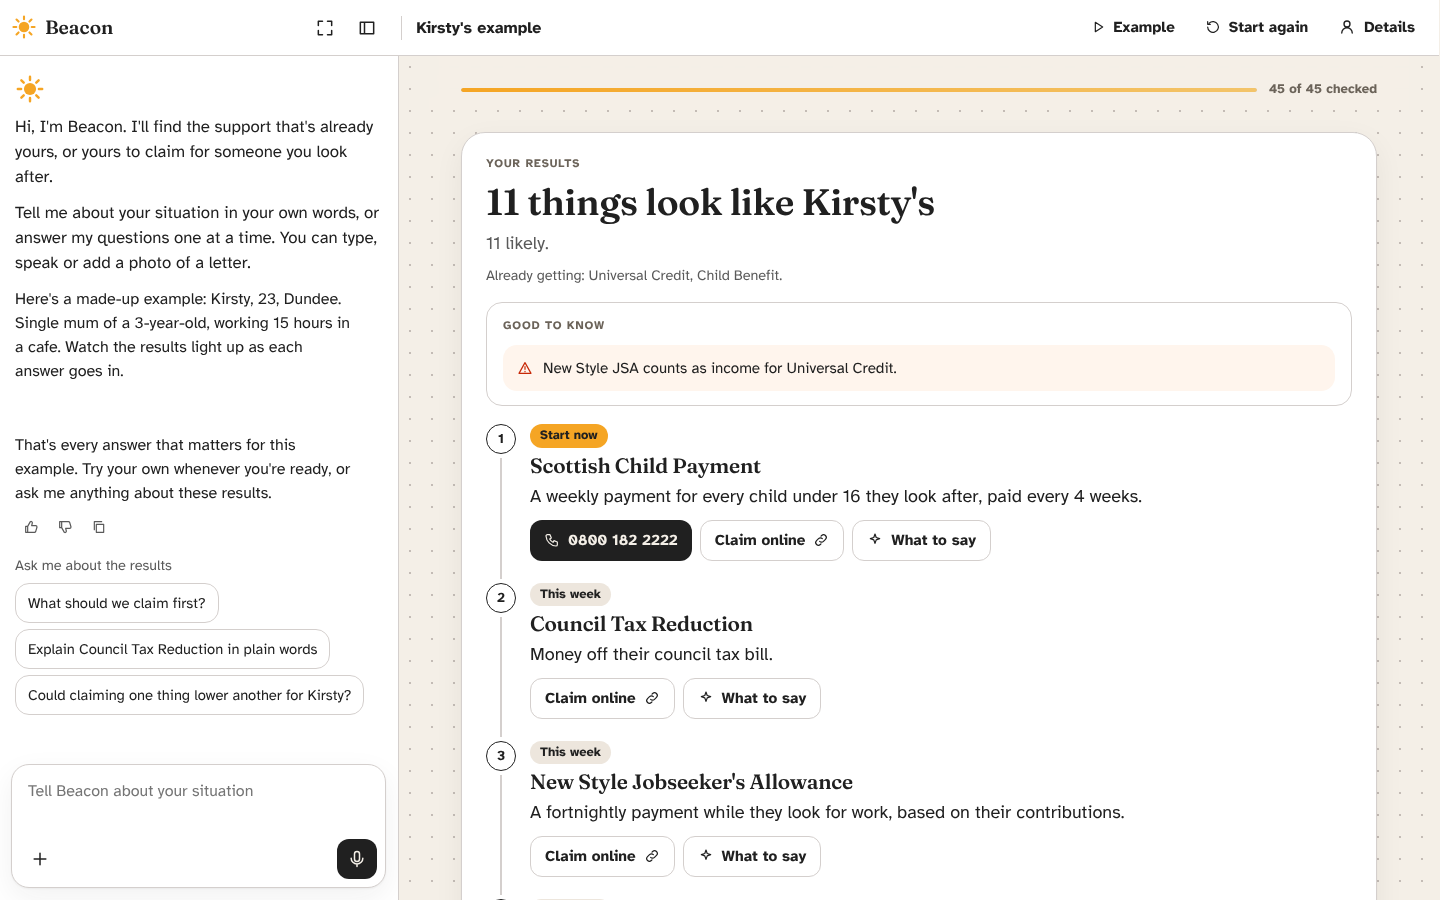
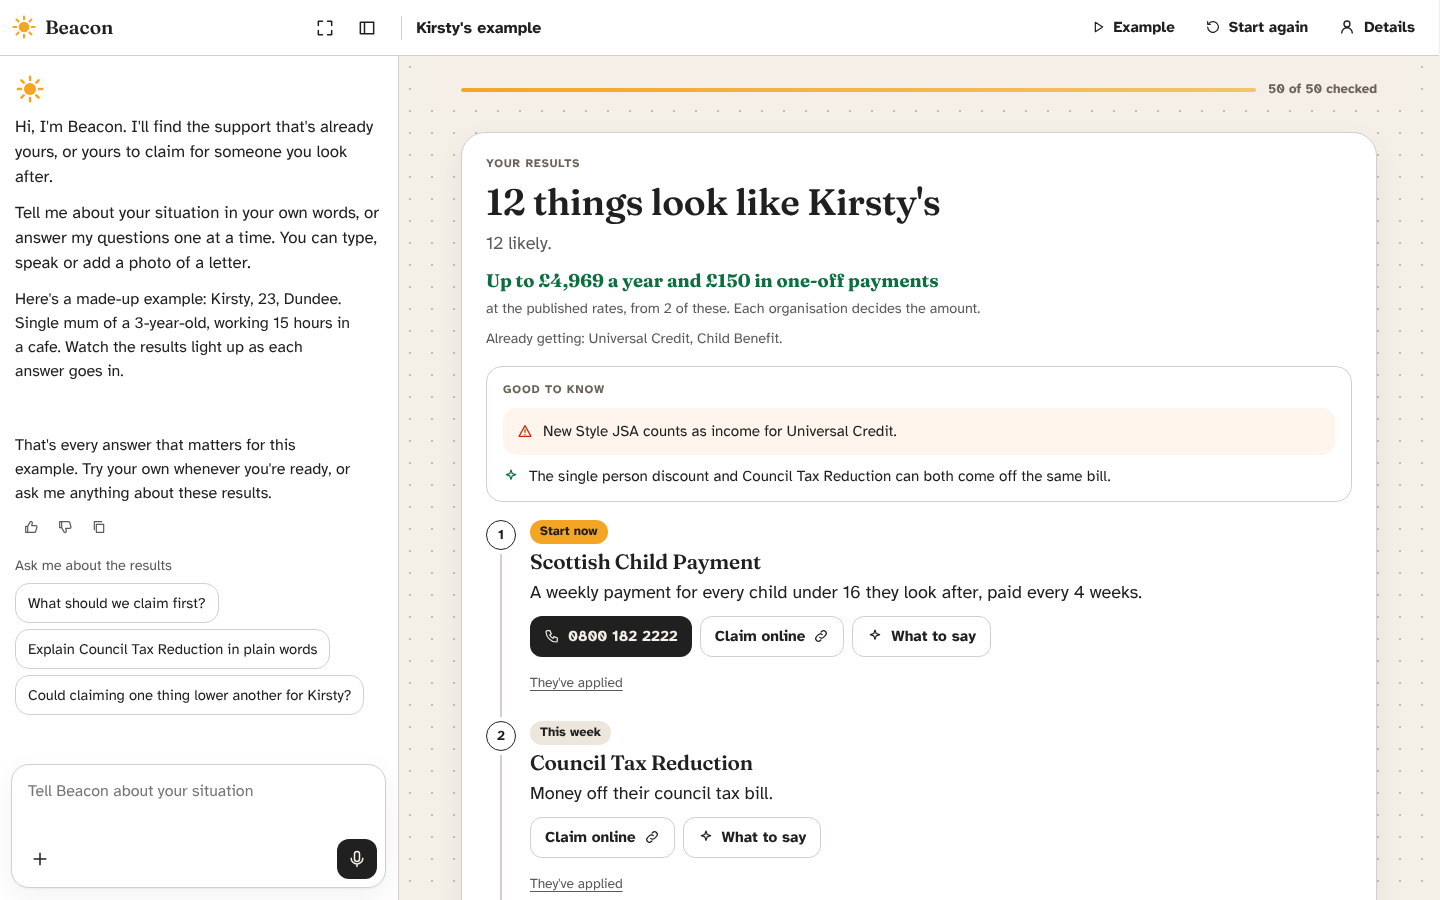
feat(meta): what the help is worth, from published rates and the person's own income
Packs carry each scheme's 2026/27 published rate with its source (Attendance
Allowance, PIP, Carer's Allowance, New Style JSA, Maternity Allowance,
Bereavement Support Payment, Winter Fuel Payment, Warm Home Discount, Pension
Age Winter Heating Payment). Pension Credit is a top-up worked out from their
income against the guarantee line. Results show a yearly total for likely help
and each scheme's amount with a link to the rates. Good to know shows clash
warnings first and folds the rest behind one button.

diff --git a/apps/meta/src/components/results/Results.tsx b/apps/meta/src/components/results/Results.tsx
@@ -18,6 +18,8 @@ import {
   type Status,
   timingFor,
   warnings,
+  worthLabel,
+  worthTotals,
 } from "@/engine/rules";
 import { STATUS_TXT, useCheck } from "@/lib/check-store";
 import { councilServiceUrl, shortCouncil, useCouncil } from "@/lib/council";
@@ -59,6 +61,7 @@ export function Results() {
     ) : null;
   }
   const total = likely + check;
+  const worth = worthTotals(states, answers);
   return (
     <section className="results" data-testid="results" aria-labelledby="res-h">
       <Banner done={done} likely={likely} />
@@ -79,22 +82,26 @@ export function Results() {
             .join(", ")}
           .
         </p>
+        {worth.yearly + worth.once > 0 && (
+          <p className="worth" data-testid="worth">
+            <b>
+              Up to £{worth.yearly.toLocaleString("en-GB")} a year
+              {worth.once
+                ? ` and £${worth.once.toLocaleString("en-GB")} in one-off payments`
+                : ""}
+            </b>{" "}
+            <span className="hint">
+              at the published rates, from {worth.count} of these. Each
+              organisation decides the amount.
+            </span>
+          </p>
+        )}
         {have.length > 0 && (
           <p className="hint">Already getting: {have.join(", ")}.</p>
         )}
       </div>
 
-      {warns.length > 0 && (
-        <div className="good-to-know">
-          <span className="eyebrow">Good to know</span>
-          {warns.map((w) => (
-            <p key={w.text} className={`gtk ${w.tone}`}>
-              <Icon name={w.tone === "boost" ? "spark" : "warn"} size={16} />
-              <span>{w.text}</span>
-            </p>
-          ))}
-        </div>
-      )}
+      {warns.length > 0 && <GoodToKnow warns={warns} />}
 
       <ol className="plan" aria-label="Your claim plan">
         {order.map((p, i) => (
@@ -141,6 +148,38 @@ export function Results() {
         </details>
       )}
     </section>
+  );
+}
+
+/** Clash warnings first, then the boosts; two show, the rest wait behind one quiet button. */
+function GoodToKnow({ warns }: { warns: ReturnType<typeof warnings> }) {
+  const [all, setAll] = useState(false);
+  const sorted = [...warns].sort((a, b) =>
+    a.tone === b.tone ? 0 : a.tone === "warn" ? -1 : 1,
+  );
+  const shown = all ? sorted : sorted.slice(0, 2);
+  return (
+    <div className="good-to-know">
+      <span className="eyebrow">Good to know</span>
+      {shown.map((w) => (
+        <p key={w.text} className={`gtk ${w.tone}`}>
+          <Icon name={w.tone === "boost" ? "spark" : "warn"} size={16} />
+          <span>{w.text}</span>
+        </p>
+      ))}
+      {sorted.length > 2 && (
+        <button
+          type="button"
+          className="linkbtn"
+          onClick={() => setAll((a) => !a)}
+          aria-expanded={all}
+        >
+          {all
+            ? "Show fewer"
+            : `${sorted.length - 2} more ${sorted.length - 2 === 1 ? "note" : "notes"}`}
+        </button>
+      )}
+    </div>
   );
 }
 
@@ -225,6 +264,14 @@ function PlanStep({
         </div>
         <h3>{s.name}</h3>
         <p>{theyify(s.gives, subject)}</p>
+        {worthLabel(s, answers) && status !== "unlock" && (
+          <p className="amount">
+            {theyify(worthLabel(s, answers) ?? "", subject)}{" "}
+            <a href={s.worth?.source} target="_blank" rel="noreferrer">
+              {s.worth?.year} rates
+            </a>
+          </p>
+        )}
         {status === "check" && states[id]?.reason && (
           <p className="hint">{states[id]?.reason}</p>
         )}

diff --git a/apps/meta/src/engine/rules.ts b/apps/meta/src/engine/rules.ts
@@ -265,6 +265,69 @@ export const timingFor = (
   return local !== undefined ? local || undefined : s.timing;
 };
 
+// ---------- Value ----------
+const gbp = (n: number) =>
+  `£${n.toLocaleString("en-GB", { minimumFractionDigits: n % 1 ? 2 : 0, maximumFractionDigits: 2 })}`;
+const PER_TXT = {
+  week: " a week",
+  month: " a month",
+  year: " a year",
+  once: " in total",
+} as const;
+
+/** A scheme's amount for this person: a top-up worked out from their income, or the published range. */
+export function worthFor(
+  s: Scheme,
+  A: Answers,
+): {
+  min?: number;
+  max: number;
+  per: "week" | "month" | "year" | "once";
+  topUp: boolean;
+} | null {
+  const w = s.worth;
+  if (!w) return null;
+  if (w.topUpTo) {
+    const line = LINES[w.topUpTo.line]?.value;
+    const inc = derive(A).incWeek;
+    if (line === undefined || inc === undefined || inc >= line) return null;
+    return {
+      max: Math.round((line - inc) * 100) / 100,
+      per: "week",
+      topUp: true,
+    };
+  }
+  return { min: w.min, max: w.max, per: w.per, topUp: false };
+}
+
+/** "£76.70 to £114.60 a week", or "About £28 a week" for a top-up from their own income. */
+export function worthLabel(s: Scheme, A: Answers = {}): string | null {
+  const w = worthFor(s, A);
+  if (!w) return null;
+  if (w.topUp)
+    return `About ${gbp(w.max)}${PER_TXT[w.per]}, from what you told Beacon`;
+  return `${w.min ? `${gbp(w.min)} to ` : "Up to "}${gbp(w.max)}${PER_TXT[w.per]}`;
+}
+
+/** The most the likely regular payments add up to in a year, and one-off sums on top. */
+export function worthTotals(
+  st: States,
+  A: Answers = {},
+): { yearly: number; once: number; count: number } {
+  let yearly = 0;
+  let once = 0;
+  let count = 0;
+  for (const s of SCHEMES) {
+    if (st[s.id]?.status !== "likely") continue;
+    const w = worthFor(s, A);
+    if (!w) continue;
+    count++;
+    if (w.per === "once") once += w.max;
+    else yearly += w.max * { week: 52, month: 12, year: 1 }[w.per];
+  }
+  return { yearly: Math.round(yearly), once: Math.round(once), count };
+}
+
 // ---------- Evaluation ----------
 export const RANK: Record<
   "have" | "likely" | "check" | "unlock" | "open" | "out",

diff --git a/apps/meta/src/engine/pack.ts b/apps/meta/src/engine/pack.ts
@@ -113,8 +113,23 @@ export const SchemeSchema = z.strictObject({
     .optional(),
   /** Screening can't settle it, so the best result is "Worth checking", with this reason. */
   worthChecking: z.string().optional(),
+  /** What it's worth at the published rates. Shown as a range; the organisation decides the amount. */
+  worth: z
+    .strictObject({
+      min: z.number().positive().optional(),
+      max: z.number().positive(),
+      per: z.enum(["week", "month", "year", "once"]),
+      /** A top-up to a weekly line: the amount is the line minus their weekly income. */
+      topUpTo: z.strictObject({ line: z.string() }).optional(),
+      source: z.url(),
+      year: z.string().regex(/^\d{4}\/\d{2}$/),
+    })
+    .optional(),
   /** GOV.UK local service slug (e.g. "apply-council-tax-reduction"): with a council, it links straight to that council's page. */
-  council: z.string().regex(/^[a-z0-9-]+$/).optional(),
+  council: z
+    .string()
+    .regex(/^[a-z0-9-]+$/)
+    .optional(),
   /** Label for the official link when it isn't a claim form, like "Ask your provider". */
   act: z.string().optional(),
   urgent: z.boolean().optional(),

diff --git a/apps/meta/src/app/globals.css b/apps/meta/src/app/globals.css
@@ -3119,3 +3119,30 @@ fieldset.track-row {
   padding: 0;
   min-width: 0;
 }
+
+/* Money: what the likely help adds up to, and each scheme's published rate */
+.res-head .worth {
+  display: flex;
+  flex-wrap: wrap;
+  align-items: baseline;
+  gap: 4px 8px;
+  margin: 2px 0 0;
+}
+.res-head .worth b {
+  font-family: var(--f-display, inherit);
+  font-size: 1.15rem;
+  color: var(--good);
+  font-variant-numeric: tabular-nums;
+}
+.step-body .amount {
+  margin: 0;
+  font-weight: 700;
+  font-variant-numeric: tabular-nums;
+  color: var(--ink);
+}
+.step-body .amount a {
+  font-weight: 400;
+  font-size: 0.82rem;
+  color: var(--muted);
+  margin-left: 6px;
+}
